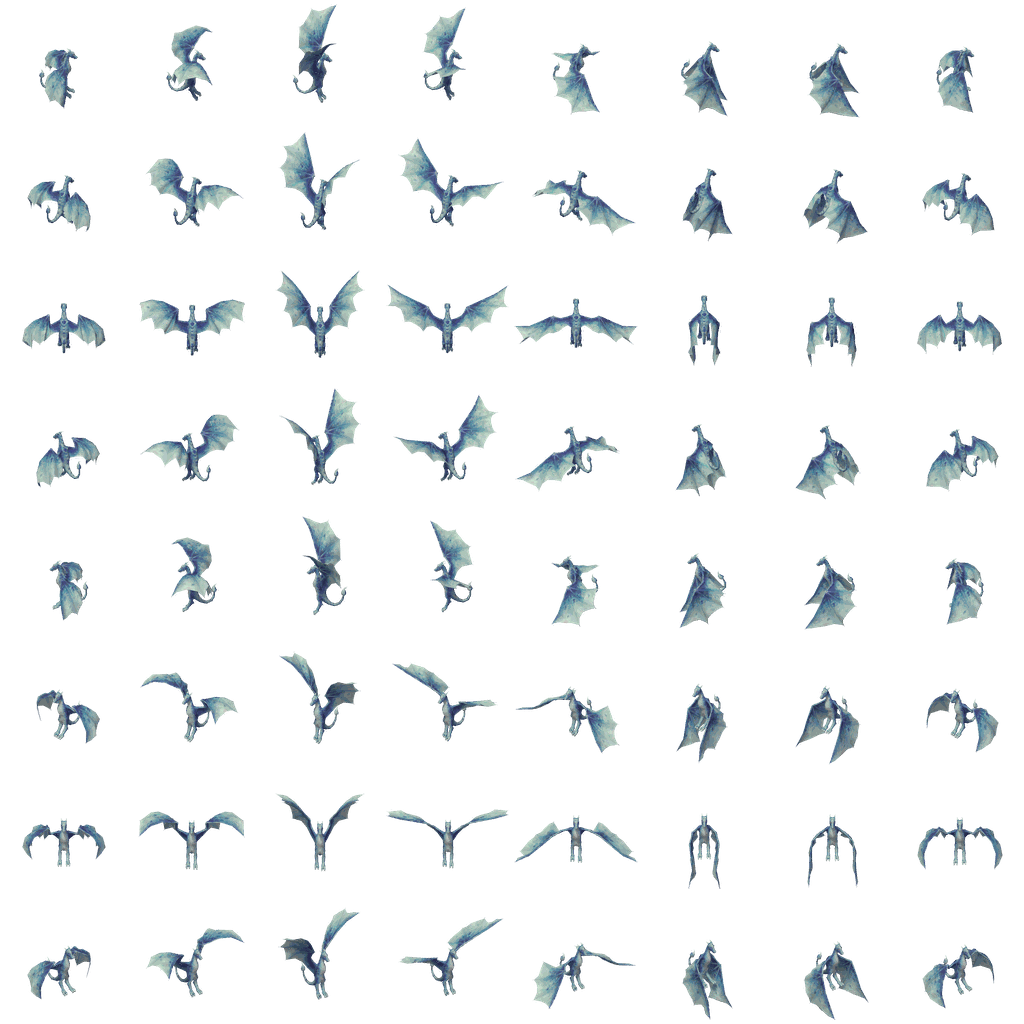
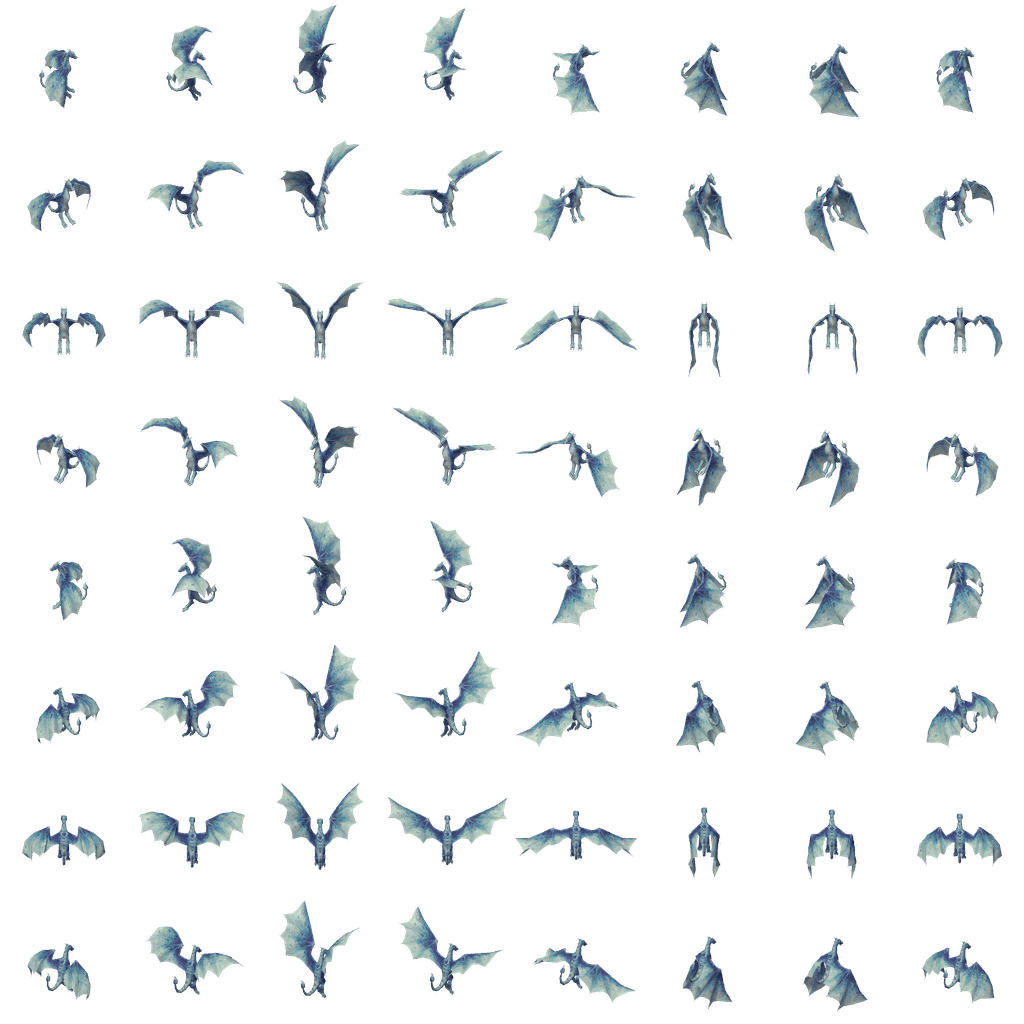
Помощники: верные направления у дракончиков и бесов, плавные движения
* Листы Flare (виверны) и демона раскладывались в обратном порядке
  направлений: перед/спина и диагонали были перепутаны. Порядок тот же,
  что у «Пограничья» (pmDir) — пересобраны, версия листов 2.
* Кадры и соседние направления перетекают друг в друга (смешивание),
  поворот — через промежуточные направления, как у игрока.
* Полёт за хозяином — пружина с критическим затуханием вместо рывка.
* Помощник со спрайтом перерисовывается каждый кадр, а не 30 раз в секунду.

Claude-Session: https://claude.ai/code/session_01Xy84knT5QKPD7CdbeWHVAh

diff --git a/js/helpers.js b/js/helpers.js
@@ -1153,10 +1153,10 @@ const _HLP_HEAD_Y = { fairy: -16, bird: -18, dragon: -22, fox: -20, seed: -20 };
 const _HLP_SHEET_IDS = new Set(['hl_sprout', 'hl_pebble', 'hl_bubble', 'hl_coin', 'hl_storm', 'hl_dragon', 'hl_spark', 'hl_ember',
   // остальные — перекрашенные монстры «Пограничья» (images/pm)
   'hl_firefly', 'hl_breeze', 'hl_moth', 'hl_leaf', 'hl_frost', 'hl_crystal', 'hl_phoenix', 'hl_void', 'hl_wisp', 'hl_seraph', 'hl_kitsune']);
-const _HLP_SHEET_VER = 1;
+const _HLP_SHEET_VER = 2;   // 2 — исправлены направления у дракончиков и бесов
 const _HLP_SHEET_CELL = 128;
 const _HLP_SHEET_FRAMES = 8;
-const _HLP_SHEET_FPS = 10;
+const _HLP_SHEET_FPS = 8;
 const _hlpSheets = new Map();   // id -> { img, ok, tries }
 
 function _hlpSheet(id) {
@@ -1179,25 +1179,36 @@ function _hlpSheet(id) {
   return s.ok ? s.img : null;
 }
 
-// dir — индекс FACING8_DIRS (0 вправо, 2 к зрителю, 4 влево, 6 от зрителя).
-// Рисует в текущей системе координат (сетка 128 с центром в нуле).
+// dir — направление в шагах FACING8_DIRS (0 вправо, 2 к зрителю, 4 влево,
+// 6 от зрителя), может быть дробным: на повороте два соседних направления
+// плавно перетекают друг в друга. Кадры тоже не щёлкают, а перетекают —
+// у листа всего 8 кадров на цикл. Рисует в текущей системе координат
+// (сетка 128 с центром в нуле).
 function _hlpDrawSheet(ctx, img, t, dir, dim) {
-  const fr = Math.floor(t * _HLP_SHEET_FPS) % _HLP_SHEET_FRAMES;
   const C = _HLP_SHEET_CELL, D = 142;
-  if (!dim) {
-    ctx.drawImage(img, fr * C, dir * C, C, C, -D / 2, -D / 2, D, D);
-    return;
-  }
+  const ph = ((t * _HLP_SHEET_FPS) % _HLP_SHEET_FRAMES + _HLP_SHEET_FRAMES) % _HLP_SHEET_FRAMES;
+  const fa = Math.floor(ph), fb = (fa + 1) % _HLP_SHEET_FRAMES, ff = ph - fa;
+  const dd = ((dir % 8) + 8) % 8;
+  const da = Math.floor(dd), db = (da + 1) % 8, df = dd - da;
+  const g = dim ? _hlpDimCanvas().getContext('2d') : ctx;
+  const x0 = dim ? 0 : -D / 2, sz = dim ? C : D;
+  if (dim) { g.globalCompositeOperation = 'source-over'; g.clearRect(0, 0, C, C); }
+  const row = (r, a) => {
+    if (a <= 0.02) return;
+    g.globalAlpha = a;
+    g.drawImage(img, fa * C, r * C, C, C, x0, x0, sz, sz);
+    if (ff > 0.02) { g.globalAlpha = a * ff; g.drawImage(img, fb * C, r * C, C, C, x0, x0, sz, sz); }
+  };
+  // Основное направление — целиком, соседнее — поверх, по доле поворота.
+  if (df < 0.5) { row(da, 1); row(db, df * 2 * 0.5); } else { row(db, 1); row(da, (1 - df) * 2 * 0.5); }
+  g.globalAlpha = 1;
+  if (!dim) return;
   // Затемнённый (ещё не открыт): силуэт без ctx.filter — его нет в Safari.
-  const cv = _hlpDimCanvas();
-  const c2 = cv.getContext('2d');
-  c2.globalCompositeOperation = 'source-over';
-  c2.clearRect(0, 0, C, C);
-  c2.drawImage(img, fr * C, dir * C, C, C, 0, 0, C, C);
-  c2.globalCompositeOperation = 'source-atop';
-  c2.fillStyle = 'rgba(40,40,46,0.88)';
-  c2.fillRect(0, 0, C, C);
-  ctx.drawImage(cv, -D / 2, -D / 2, D, D);
+  g.globalCompositeOperation = 'source-atop';
+  g.fillStyle = 'rgba(40,40,46,0.88)';
+  g.fillRect(0, 0, C, C);
+  g.globalCompositeOperation = 'source-over';
+  ctx.drawImage(_hlpDimCanvas(), -D / 2, -D / 2, D, D);
 }
 let _hlpDimCv = null;
 function _hlpDimCanvas() {
@@ -1217,7 +1228,8 @@ function helperDrawFrame(ctx, def, t, size, opts = {}) {
   const bob = Math.sin(t * 2.2 + def.id.length) * 3;
   const sheet = _hlpSheet(def.id);
   if (sheet) {
-    const dir = opts.dir != null ? ((opts.dir % 8) + 8) % 8 : (2 + Math.floor(t / 1.4)) % 8;
+    // В окне — медленный непрерывный поворот, показывающий все 8 сторон.
+    const dir = opts.dir != null ? opts.dir : 2 + t / 1.6;
     if (!opts.dim) _hlpBackGlow(ctx, L, t, tier);
     ctx.translate(0, bob);
     if (!opts.dim) _hlpOrbit(ctx, L, t, tier, false);

diff --git a/js/pixi-world.js b/js/pixi-world.js
@@ -3297,17 +3297,40 @@ function _updateHelperLayer(dt, ts) {
   const side = fx < -0.3 ? 1 : -1;  // с той стороны, куда игрок НЕ смотрит
   const tx = player.x - fx * 14 + side * 26;
   const ty = player.y - fy * 8 - 62;
-  if (!obj.st || Math.hypot(tx - obj.st.x, ty - obj.st.y) > _PET_SNAP_DIST) obj.st = { x: tx, y: ty };
-  const k = Math.min(1, dt * 4.5);
-  obj.st.x += (tx - obj.st.x) * k;
-  obj.st.y += (ty - obj.st.y) * k;
+  if (!obj.st || Math.hypot(tx - obj.st.x, ty - obj.st.y) > _PET_SNAP_DIST) obj.st = { x: tx, y: ty, vx: 0, vy: 0 };
+  // Пружина с критическим затуханием: помощник плавно разгоняется и плавно
+  // тормозит, без рывка, когда хозяин повернулся и точка у плеча
+  // перескочила на другую сторону. Шаг дробим — на просадке кадров
+  // пружина не раскачивается.
+  const W = 5.5;
+  let rest = Math.min(dt, 0.1);
+  while (rest > 0) {
+    const h = Math.min(rest, 1 / 120); rest -= h;
+    obj.st.vx += ((tx - obj.st.x) * W * W - 2 * W * obj.st.vx) * h;
+    obj.st.vy += ((ty - obj.st.y) * W * W - 2 * W * obj.st.vy) * h;
+    obj.st.x += obj.st.vx * h;
+    obj.st.y += obj.st.vy * h;
+  }
 
+  // Поворот — через промежуточные направления, как у игрока (smoothFacing8,
+  // js/utils.js), только медленнее; угол дробный — соседние
+  // направления в листе перетекают друг в друга.
+  const want = Math.max(0, FACING8_DIRS.indexOf(player.facing || 'front')) * Math.PI / 4;
+  if (obj.faceAng == null) obj.faceAng = want;
+  let dAng = want - obj.faceAng;
+  while (dAng > Math.PI) dAng -= 2 * Math.PI;
+  while (dAng < -Math.PI) dAng += 2 * Math.PI;
+  const turn = 7 * Math.min(dt, 0.1);   // рад/с; у игрока — 13
+  obj.faceAng += Math.abs(dAng) < turn ? dAng : Math.sign(dAng) * turn;
+  const dir = obj.faceAng / (Math.PI / 4);
+
+  // Помощник с листом — каждый кадр (там только drawImage), нарисованный
+  // кодом — не чаще 30 раз в секунду, как раньше.
+  const hasSheet = typeof _hlpSheet === 'function' && !!_hlpSheet(def.id);
   obj.drawAcc += dt;
-  if (obj.drawAcc >= 1 / 30) {
+  if (hasSheet || obj.drawAcc >= 1 / 30) {
     obj.drawAcc = 0;
-    // Помощник с 8-направленным листом смотрит туда же, куда хозяин.
-    const dir = (typeof FACING8_DIRS !== 'undefined') ? FACING8_DIRS.indexOf(player.facing) : -1;
-    helperDrawFrame(obj.ctx, def, ts / 1000, _HELPER_CV_PX, { dir: dir >= 0 ? dir : 2 });
+    helperDrawFrame(obj.ctx, def, ts / 1000, _HELPER_CV_PX, { dir });
     obj.tex.baseTexture.update();
   }
   obj.spr.visible = true;

diff --git a/dev/build-helper-sprites.py b/dev/build-helper-sprites.py
@@ -38,8 +38,12 @@ from PIL import Image
 REPO = os.path.join(os.path.dirname(os.path.abspath(__file__)), '..')
 CELL = 128          # сторона клетки в листе
 FRAMES = 8
-# FACING8_DIRS index k -> направление Flare: 0 W, 1 SW, 2 S, 3 SE, 4 E, 5 NE, 6 N, 7 NW
-FLARE_DIR = [(4 - k) % 8 for k in range(8)]
+# FACING8_DIRS index k -> направление Flare. Порядок у Flare (и у demon_0.png)
+# тот же, что у «Пограничья» (pmDir, js/pm-monsters.js): по часовой от запада —
+# 0 З, 1 СЗ, 2 С (спиной к нам), 3 СВ, 4 В, 5 ЮВ, 6 Ю (лицом к нам), 7 ЮЗ.
+# (Сначала здесь стоял обратный порядок — перед/спина и диагонали были
+# перепутаны, совпадали только «влево» и «вправо».)
+FLARE_DIR = [(k + 4) % 8 for k in range(8)]
 
 # helper id -> (вариант виверны, перекраска)
 # перекраска: None | ('hue', сдвиг 0..1, множитель насыщенности) | ('tint', '#rrggbb', сила 0..1)
@@ -67,8 +71,8 @@ HELPERS.update({
     'hl_seraph':  ('pm:skeleton_knight_boss',    ('tint', '#fff2a0', 0.65, 1.7)),
     'hl_kitsune': ('pm:antlion',                 ('tint', '#ff9ae6', 0.65, 1.8)),
 })
-# FACING8_DIRS index k -> направление атласа «Пограничья»
-PM_DIR = [(k + 4) % 8 for k in range(8)]
+# FACING8_DIRS index k -> направление атласа «Пограничья» (тот же порядок)
+PM_DIR = FLARE_DIR
 DEMON_CELL = 256
 DEMON_IDLE = [0, 1, 2, 3, 3, 2, 1, 0]
 
